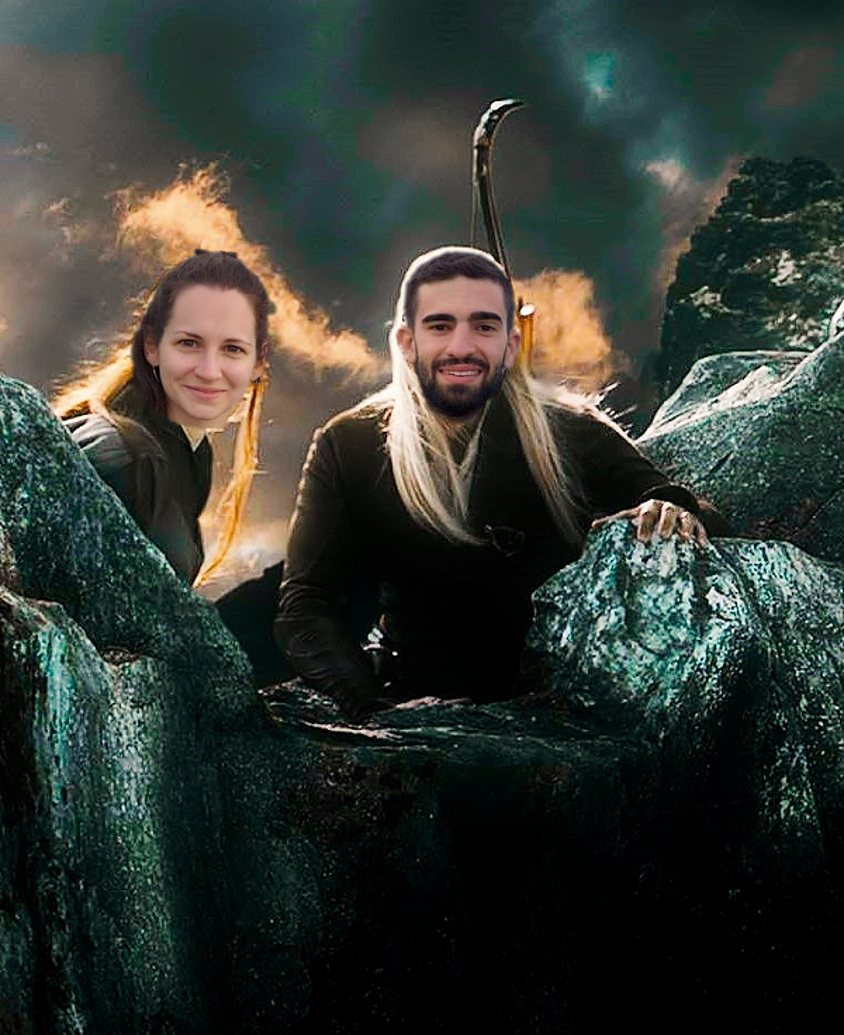
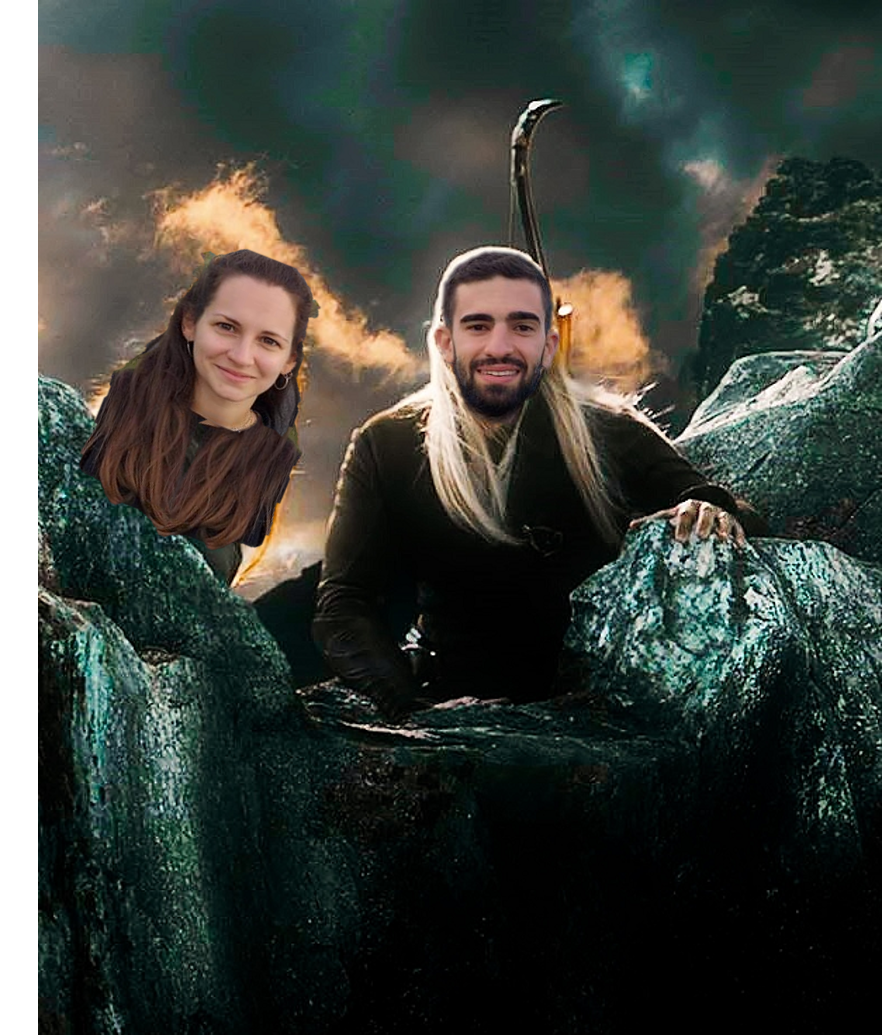
Add files via upload

diff --git a/Proves_ESDLA.html b/Proves_ESDLA.html
@@ -10,7 +10,7 @@
             margin: 0;
             padding: 0;
             background-image: url('em_legolas.png');
-            background-size: 65%; /* Cambiado el tamaño del fondo */
+            background-size: 50%; /* Cambiado el tamaño del fondo */
             background-repeat: no-repeat;
             background-position: center top; /* Colocar el fondo en la parte superior */
             color: white;
@@ -45,6 +45,7 @@
 </head>
 <body>
     <div class="content">
+        <p>Espera mi llegada con la primera luz del quinto día al alba, mira al este</p>
         <p>Latitud: 42.345386° N</p>
         <p>Longitud: 1.754407° W</p>
     </div>
